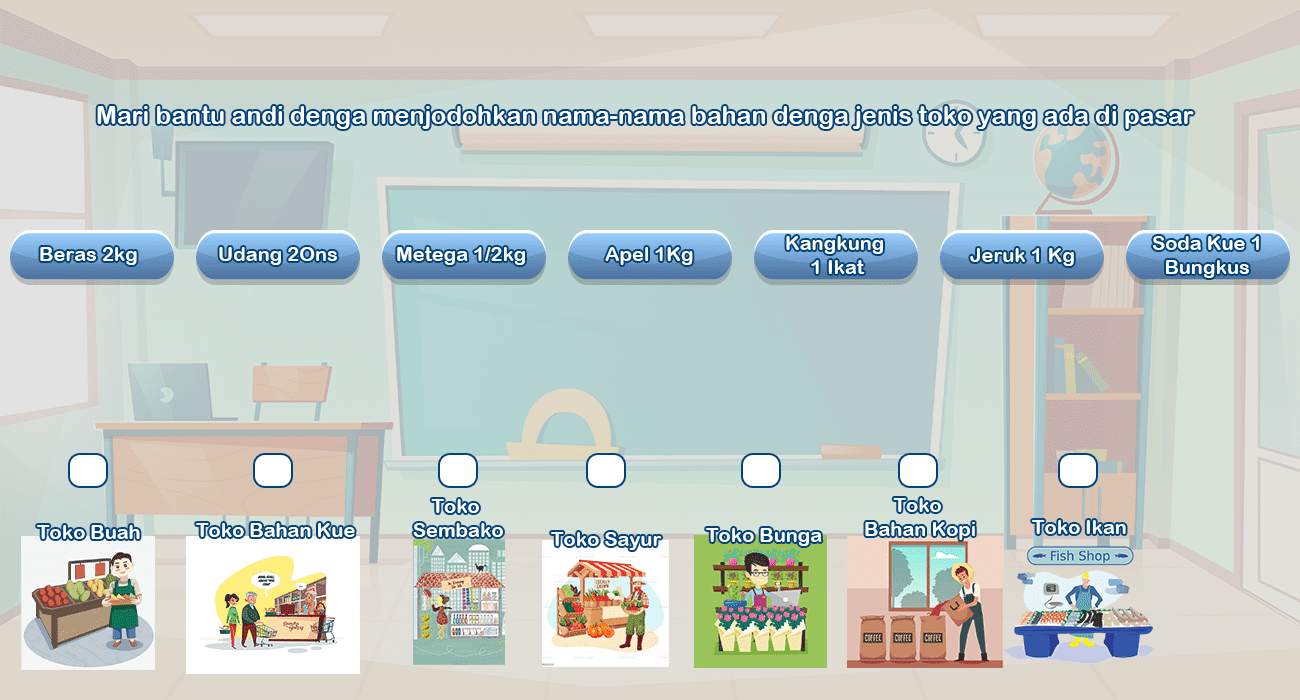
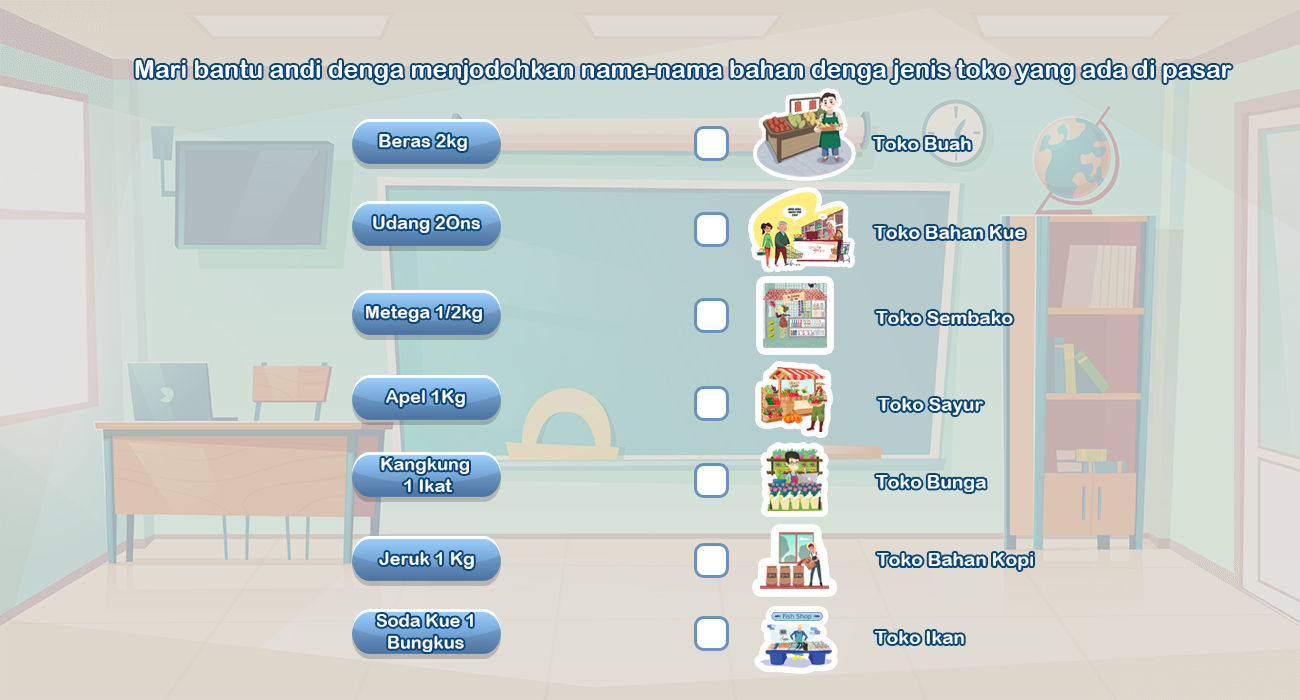
materi 1-3 cuy

diff --git a/css/materi1-3.css b/css/materi1-3.css
@@ -9,6 +9,18 @@ body {
   background-repeat: no-repeat;
   background-size: 100%;
 }
+
+#btnBack{
+  position: absolute;
+  bottom: 0;
+  left: 0;
+}
+
+#btnNext{
+  position: absolute;
+  right: 0;
+  bottom: 0;
+}
  
 /* Give headings their own font */
  
@@ -32,23 +44,14 @@ h1, h2, h3, h4 {
   /* margin: 0 0 3em auto; */
   /* background: navy; */
   float: right;
-  margin-right: 25%;
-}
- 
-/* The initial pile of unsorted cards */
- 
-#cardPile {
-  /* margin: 0 0; */
-  /* background: green; */
-  float: left;
-  margin-left: 25%;
+  margin-right: 37%;
 }
  
 #cardSlots, #cardPile {
-  width: 10%;
-  margin-top: 3%;
-  /* height: 50%; */
+  width: 9%;
   padding: .5em;
+  margin-top: 5%;
+  /* height: 50%; */
   /* border: 2px solid #333;
   -moz-border-radius: 10px;
   -webkit-border-radius: 10px;
@@ -57,18 +60,28 @@ h1, h2, h3, h4 {
   -webkit-box-shadow: 0 0 .3em rgba(0, 0, 0, .8);
   box-shadow: 0 0 .3em rgba(0, 0, 0, .8); */
 }
+
+/* The initial pile of unsorted cards */ 
+#cardPile {
+  float: left;
+  margin-left: 37%;
+  margin-top: 5.5%;
+  /* margin: 0 0; */
+  /* background: green; */
+}
  
 /* Individual cards and slots */
  
 #cardSlots div, #cardPile div {
   float: left;
-  width: 30%;
-  height: 30%;
-  padding: .85em;
-  padding-top: 30px;
-  padding-bottom: 0;
+  width: 20%;
+  height: 20%;
+  padding: .75em;
   margin: 10px 0 0 10px;
   background: #fff;
+  margin-top: 23%;
+  /* padding-top: 10px; */
+  /* padding-bottom: 0; */
 }
  
 /*#cardSlots div:first-child, #cardPile div:first-child {
@@ -89,6 +102,7 @@ h1, h2, h3, h4 {
   font-size: 1em;
   text-shadow: 0 0 3px #000;
   text-align: center;
+  margin-top: 26%;
 }
  
 #cardPile div.ui-draggable-dragging {

diff --git a/materi1-3.php b/materi1-3.php
@@ -31,9 +31,11 @@ function init() {
   $('#cardSlots').html( '' );
 
   // Create the pile of shuffled cards
-  var numbers = [ 1, 2, 3, 4, 5, 6, 7, 8, 9, 10 ];
-  var terms = ['1', '2', '3', '4', '5', '6', '7', '8', '9', '10' ];
-  <!--numbers.sort( function() { return Math.random() - .5 } );-->
+  var numbers = [ 3, 7, 2, 1, 4, 1, 2];
+  var terms = ['&nbsp', '&nbsp', '&nbsp', '&nbsp', '&nbsp', '&nbsp', '&nbsp', '&nbsp', '&nbsp', '10' ];
+  // numbers.sort( function() { return Math.random() - .5 } );
+
+  console.log(numbers)
 
   for ( var i=0; i<7; i++ ) {
     $('<div>' + terms[i] + '</div>').data( 'number', numbers[i] ).attr( 'id', 'card'+numbers[i] ).appendTo( '#cardPile' ).draggable( {
@@ -45,7 +47,7 @@ function init() {
   }
 
   // Create the card slots
-  var words = [ 'one', 'two', 'three', 'four', 'five', 'six', 'seven', 'eight', 'nine', 'ten' ];
+  var words = [ '&nbsp', '&nbsp', '&nbsp', '&nbsp', '&nbsp', '&nbsp', '&nbsp', '&nbsp', '&nbsp', '&nbsp' ];
   for ( var i=1; i<=7; i++ ) {
     $('<div>' + words[i-1] + '</div>').data( 'number', i ).appendTo( '#cardSlots' ).droppable( {
       accept: '#cardPile div',
@@ -68,7 +70,7 @@ function handleCardDrop( event, ui ) {
   if ( slotNumber == cardNumber ) {
     ui.draggable.addClass( 'correct' );
     ui.draggable.draggable( 'disable' );
-    $(this).droppable( 'disable' );
+    // $(this).droppable( 'disable' );
     ui.draggable.position( { of: $(this), my: 'left top', at: 'left top' } );
     ui.draggable.draggable( 'option', 'revert', false );
     correctCards++;
@@ -101,8 +103,13 @@ function handleCardDrop( event, ui ) {
   <div id="cardSlots"> </div>
 
   <div id="successMessage">
-    <h2>Congratulations!</h2>
-    <button onclick="init()">Play Again</button>
+  </div>
+
+  <div id="btnBack">
+    <a href="materi1-2.php"><img src="img/Button-Back.png" width="90" height="90" border="0" /></a>
+  </div>
+  <div id="btnNext">
+    <a href="materi1-4.php"><img src="img/Button-Next.png" width="90" height="90" border="0" /></a>
   </div>
 
 </div>
